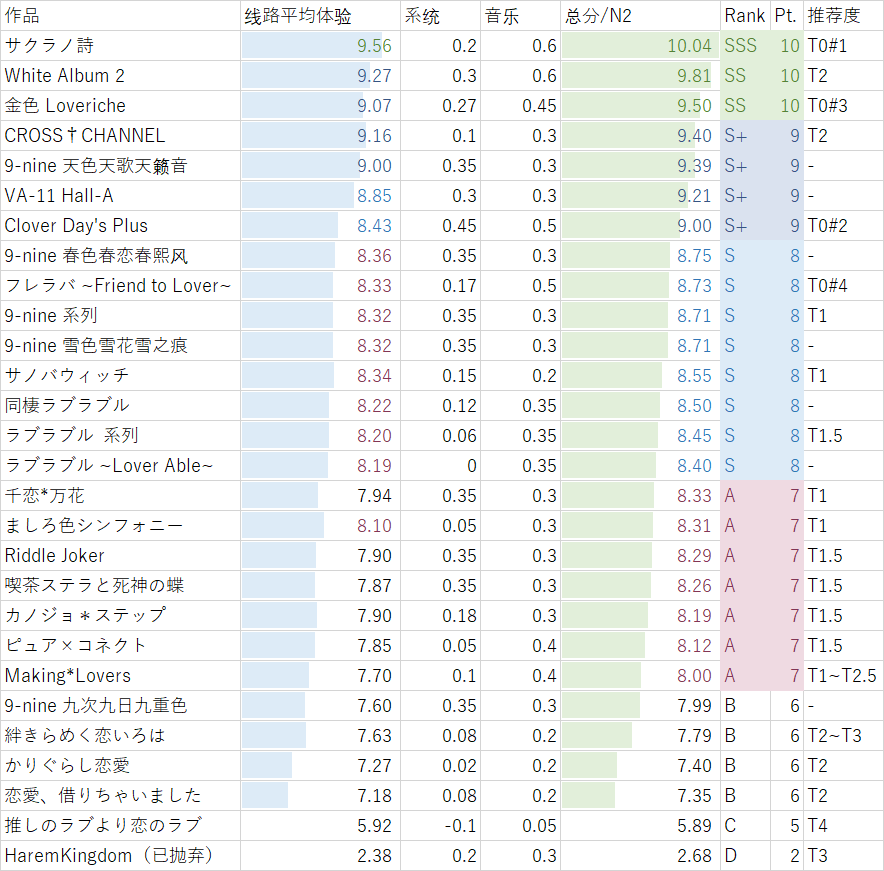
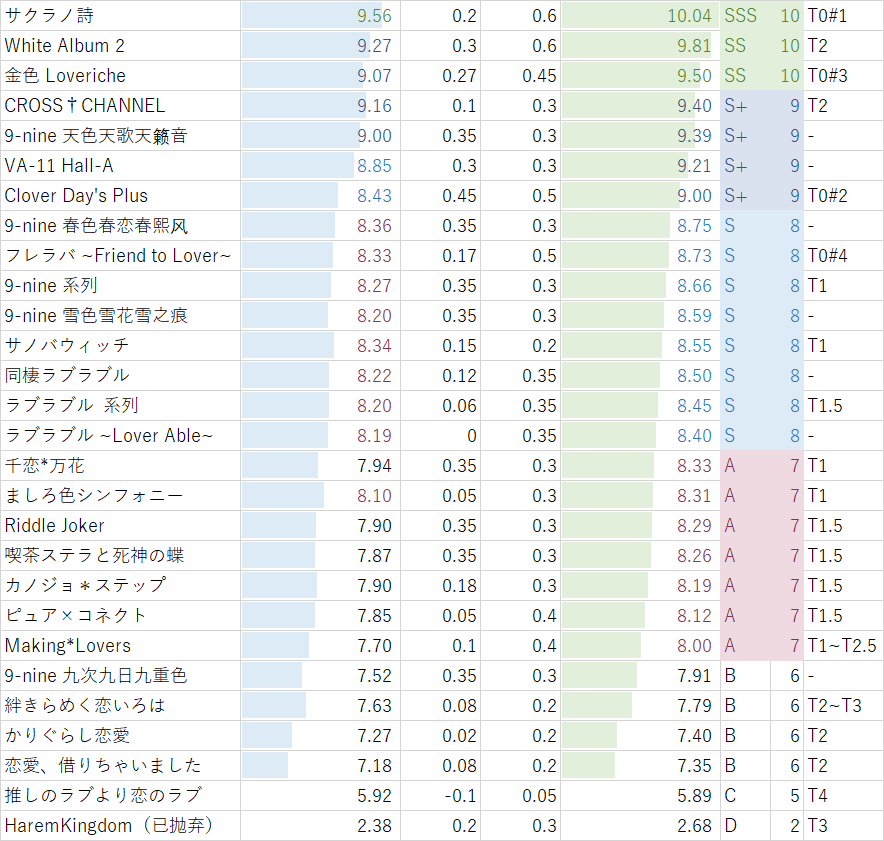
MoeImp 9nine edit

Changed region(s): [[0.0, 0.0, 1.0, 1.0], [0.2749, 0.7111, 0.3665, 0.9275]]

diff --git a/impression/9nine.md b/impression/9nine.md
@@ -21,27 +21,27 @@ Palette 「9-nine」（2017-2020）
 
 | 9-nine | 线路分  |   作品分 | Rank |
 | :---------------: | ---: | :---------: | :--: |
-| 九次九日九重色 | 9.50 | 10.15/N7.99 |  B  |
+| 九次九日九重色 | 9.40 | 10.05/N7.91 |  B  |
 | 天色天歌天籁音 | 11.25 | 11.90/N9.39 |  S+  |
 | 春色春恋春熙风 | 10.45 | 11.10/N8.75 |  S  |
-| 雪色雪花雪之痕 | 10.40 | 11.05/N8.71 |  S   |
-| 整体评分 | - | 11.05/N8.71 |  S  |
+| 雪色雪花雪之痕 | 10.25 | 10.90/N8.59 |  S   |
+| 整体评分 | - | 10.99/N8.66 |  S  |
 
 ### 九次九日九重色
 
 （九條都）
 
 印象分 9.1→8.2/10 趣味 0.0/0.3 情感 0.3/0.5  
-人物刻画 0.3/0.5 剧情表现 0.1/0.5  
+人物刻画 0.2/0.5 剧情表现 0.1/0.5  
 人物（声音 + 作画）(0.25+0.4)/(0.3+0.4)  
 结尾埋了一个雷 -0.05  
-线路总计 9.5/12.5
+线路总计 9.4/12.5
 
 系统 存档方便 +0.05 场景动态 +0.1   
 人物表情动态 +0.05 漫画场景 +0.05  
 整体「精致感」+0.1  
 音乐 +0.3  
-作品总计 10.15/N7.99 B
+作品总计 10.05/N7.91 B
 
 系统方面，这可能是我用过的最好用的系统了，存档界面就在手边，基本功能也没有缺失，人物和场景甚至有些动态，比如一些表情的「冒汗」「kira」这样的效果。这个动态 CG 过于强大甚至使得我跳 hs 有了一种暴殄天物的罪恶感。
 
@@ -117,13 +117,13 @@ Palette 「9-nine」（2017-2020）
 （结城希亚）
 
 印象分 9.3→8.6/10 趣味 0.15/0.3 情感 0.35/0.5  
-人物刻画 0.4/0.5 剧情表现 0.3/0.5  
+人物刻画 0.25/0.5 剧情表现 0.3/0.5  
 人物（声音 + 作画）(0.25+0.35)/(0.3+0.4)  
-线路总计 10.4/12.5
+线路总计 10.25/12.5
 
 系统 +0.35（同上）  
 音乐 +0.3  
-作品总计 11.05/N8.71 S
+作品总计 10.90/N8.59 S
 
 前回书说到春春春结尾给了个 meta 设定，果不其然在这里对剧情的推动和发展发挥了巨大作用——不如说没作用的话就是扣分点了。但是这对玩家的记忆有着较高的要求，需要记住这是哪，从哪开始进行世界线修正。于是有了一个 Overload ~~Flowchart~~ ，但是与其说是类似于柚子社的流程图，更像是多选一的选项——毕竟本作没有实装前三作的剧情数据，也可以理解~~而且如果出整合版估计也会因为是春春春重大剧透而只能在春春春结束后解锁吧（？）~~。
 
@@ -135,17 +135,21 @@ Palette 「9-nine」（2017-2020）
 
 角色上的话这一作（当然是在这一作）形成了一个更加立体的角色形象，尤其是对比前三作形成了非常深刻印象的人物形象就更加明显，反差萌什么的最可爱了（。然后用这样的剧情把这个角色的过去、心结、成长的过程等等都能讲清楚，就我看来是比其他线路要高明的（当然天天天侧重于情感描写，那就是另一个故事了）。
 
-我认为像 9-nine 这种作品因为其剧情原因同一条线不能只刻画某一个女主角，而是需要同时刻画好一个群像，基本上每一个登场角色都有属于自己的个性和特质，而如何做到不让某一个或几个特定的角色影响到或者说遮蔽了其他角色的刻画则是这种作品最难的地方。这一作（也包括天天天和春春春）最大的优点就是做到了这一点。~~不过本作我感觉所有趣味性都是来自华哥的卖力演出，我有问题。~~
+我认为像 9-nine 这种作品因为其剧情原因同一条线不能只刻画某一个女主角，而是需要同时刻画好一个群像，基本上每一个登场角色都有属于自己的个性和特质，而如何做到不让某一个或几个特定的角色影响到或者说遮蔽了其他角色的刻画则是这种作品最难的地方。~~这一作（也包括天天天和春春春）~~ **天天天和春春春**最大的优点就是做到了这一点，但是现在回过头来想雪雪雪这作除了华哥出来搞笑其他两个女主没啥戏分，就一般了。（5/25 更新）
+
+~~本作我感觉所有趣味性都是来自华哥的卖力演出，我有问题。~~
+
+然后还有一个问题，就是反派太扁平了，就，推的时候方便产生共鸣，推完之后回想起来就，没意思。
 
 题外话：实际上这作不好打分，因为怎么讲，自从推完春春春之后已经过去一个多月了，当时给前作打分的理由有很多实际上记不太清楚了，经常就是对着上面的前作评价来回忆到底发生了什么让我给出了这样的分数。再加上前作一直熟肉这作是生肉，理解力可能相对下降一点。  
 ~~唉，一想到这作是华哥里界隐退作（应该是了），有点遗憾。~~ 到底是不是呢？
 
 ### 整体评价
 
-各线路加权总分 10.40  
+各线路加权总分 10.34  
 系统 +0.35（同上）  
 音乐 +0.3  
-作品总计 11.05/N8.71 S
+作品总计 10.99/N8.66 S
 
 实际上我们都能看得出来，9-nine 系列的各个作品与其说是独立作，不如说是一作的不同分支线路。分割商法带来的一个缺点是作品发售时间越靠后剧情越深入并且剧情描绘越能用上力，这实际上发售早的线路十分吃亏，综上所述这句话我说过无数次了但是还要再说一次：
 
@@ -158,6 +162,8 @@ Palette 「9-nine」（2017-2020）
 仔细想的话 9-nine 尤其雪雪雪的故事是经不起推敲的。比如说 Ilith 从所有枝上消失了，那么原来 Ilith 干涉的线还存在吗？其他线的主角是否知道 Ilith 消失的事情吗？如此种种，经不起推敲就是了。我觉得很大程度上这条线就是强行圆回来这样的感觉。
 
 所以说这作不能带太多脑子推。
+
+5/23 更新：再说一句题外话：这作是那种，不带脑子的话情感冲击还是挺强烈的，但是一旦带脑子就全完了的那种故事。所以
 
 ---
 
